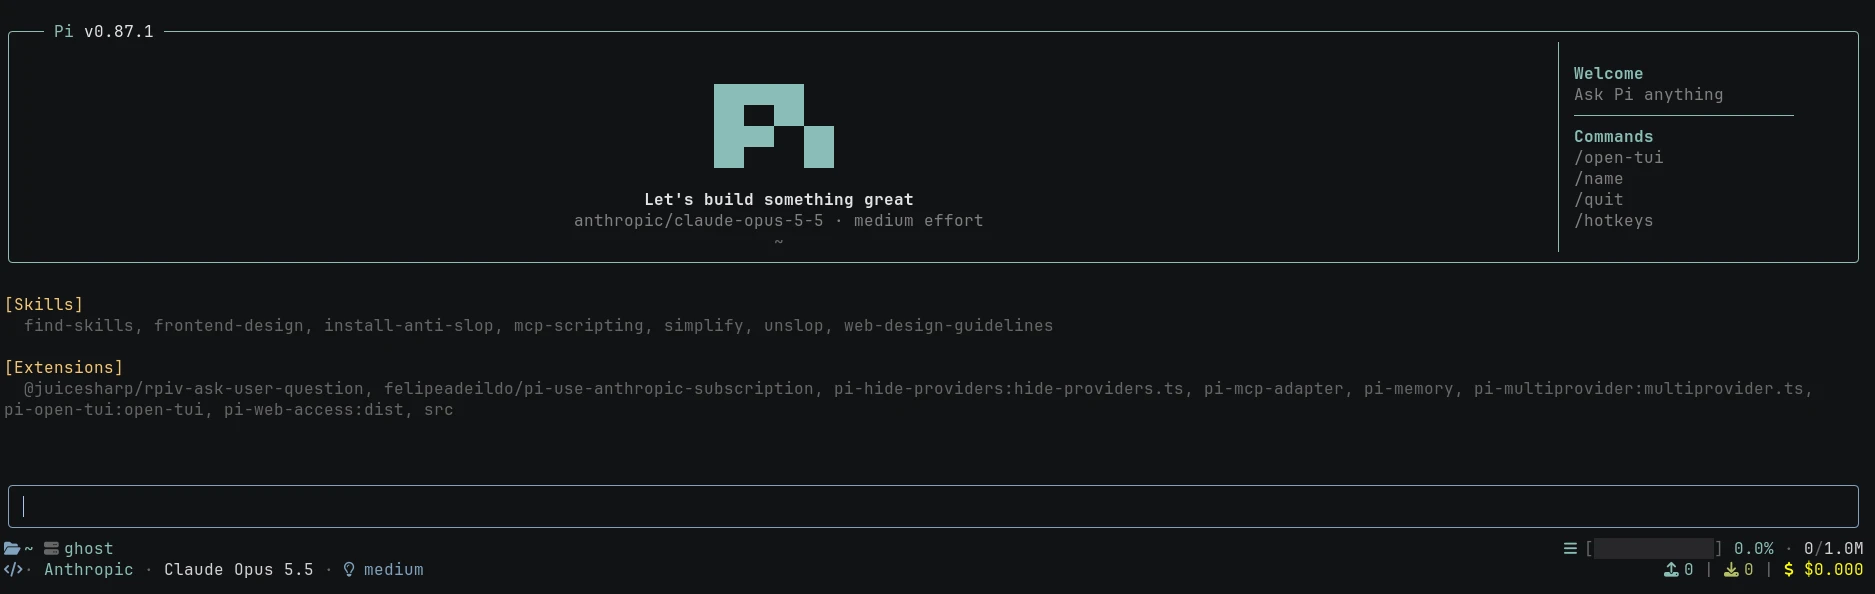
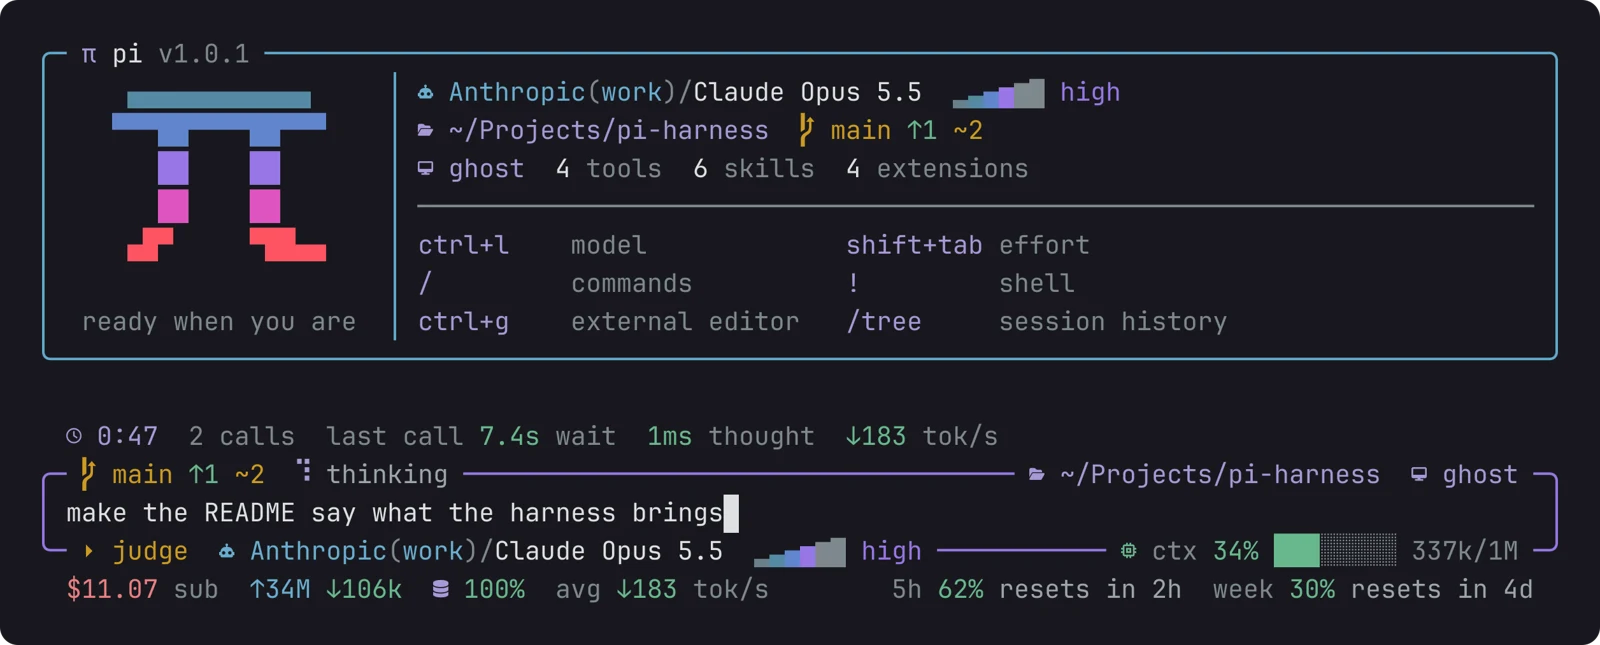
docs(wiki): rewrite the agents page around pi-harness

diff --git a/docs/wiki/agents/index.md b/docs/wiki/agents/index.md
@@ -1,15 +1,15 @@
 ---
 icon: lucide/bot
-description: Pi, the coding agent I use every day, with the settings I changed, every extension I run and what each one is configured to do, including two of my own.
+description: Pi, the coding agent I use every day, with the settings I changed, my own harness on top of it, the extensions from other people I still run, and my skills.
 ---
 
 # agents
 
-I use one AI agent, [Pi](https://pi.dev/), in the terminal. Pi comes small on purpose. You get a model, four or five tools and an editor, and the rest you add with packages. So what makes my Pi mine is which packages I install and how I set each one up, and that's what this page is about.
+I use one AI agent, [Pi](https://pi.dev/), in the terminal. Pi comes small on purpose: a model, a few tools and an editor, and the rest you add with packages. Most of what I add is my own now, [pi-harness](https://github.com/felipeadeildo/pi-harness). The story of why is in [the post about it](../../log/posts/0001_yes_another_agent_harness.md).
 
-![Pi's start screen in Ghostty with the pi-open-tui header, the list of skills and extensions, and the footer with folder, host, model, context and cost](../../assets/images/agents/pi.webp)
+![Pi with pi-harness: the start card with the model, the folder and the keys, then the stopwatch, the framed editor with the branch, the permission mode, the model and the context, and the footer with the cost and the plan's windows](../../assets/images/agents/pi.webp)
 /// caption
-Pi when it starts, with the header and footer from [pi-open-tui](#pi-open-tui).
+Pi when it starts, and a prompt halfway through its answer. The start card, the frame and the footer are my own harness, drawn by [the look](#look).
 ///
 
 ## Install
@@ -19,71 +19,51 @@ curl -fsSL https://pi.dev/install.sh | sh
 pi
 ```
 
-The script looks for Node and npm, then installs Pi with the `npm` of whatever Node is active. Here that's Node 24, from [fnm](../workbench/index.md#languages). It also puts Pi's folder on the `PATH` in your shell config. That's the `# Pi` line at the end of my [`config.fish`](../workbench/index.md#what-i-added), I didn't write it.
-
-Then `/login anthropic` inside Pi connects my Claude subscription. I leave it on Claude Opus 5.5, medium effort.
+The script installs Pi with the `npm` of whatever Node is active, here Node 24 from [fnm](../workbench/index.md#languages), and adds the `# Pi` line to my [`config.fish`](../workbench/index.md#what-i-added). Then `/login anthropic` connects my Claude subscription, and I stay on Claude Opus 5.5, medium effort.
 
 ## Settings
 
-I left most settings alone. These are the ones I changed, in `~/.pi/agent/settings.json`:
+The ones I changed in `~/.pi/agent/settings.json`:
 
-| Setting | What it does |
+| Setting | Why |
 | --- | --- |
-| `tuiMode`: fullscreen | the editor and the status bar stay put, and only the conversation scrolls |
-| `outputPad`: 0 | no side padding on the conversation, so code blocks get the full width |
-| `steeringMode`: all | messages I send while it's working all arrive together after the current step, instead of one per step |
-| `followUpMode`: all | same, for follow-ups (++alt+enter++), which wait until the whole task is done |
-| `showCacheMissNotices` | tells me when the prompt cache missed, which is when a turn costs a lot more |
-| `enableInstallTelemetry`: false | no anonymous install and update reports |
-| `warnings.anthropicExtraUsage`: false | stops warning about paid extra usage, since [my extension](#pi-use-anthropic-subscription) makes it bill the subscription |
-| `defaultModel`: claude-opus-5-5 | the model every new session starts with |
+| `outputPad`: 0 | code blocks get the full width |
+| `steeringMode`: all | messages I send while it works arrive together, not one per step |
+| `followUpMode`: all | same for follow-ups (++alt+enter++) |
+| `showCacheMissNotices` | tells me when a turn costs more because the cache missed |
+| `enableInstallTelemetry`: false | no install reports |
+| `warnings.anthropicExtraUsage`: false | [providers](#providers) bills the subscription, so the warning is wrong |
+| `defaultModel`: claude-opus-5-5 | where every session starts |
 
-## Extensions
+## Packages
 
-Each extension is one line in `settings.json`. `pi install` writes the line for you.
+`pi install npm:<name>` writes each line for you.
 
 ``` json title="~/.pi/agent/settings.json"
 "packages": [
+  "npm:@adeildo/pi-harness",
   "npm:pi-hide-providers",
-  "npm:pi-multiprovider",
   "npm:pi-web-access",
-  "npm:@juicesharp/rpiv-ask-user-question",
-  "npm:pi-mcp-adapter",
-  "npm:pi-open-tui",
   "npm:pi-memory",
-  "git:github.com/felipeadeildo/pi-use-anthropic-subscription.git", // (1)!
   "npm:pi-subagents"
-],
-"extensions": [
-  "/home/adeildo/Projects/pi-ask-permission/src/index.ts" // (2)!
 ]
 ```
 
-1. My fork, straight from git. The reason is [below](#pi-use-anthropic-subscription).
-2. My own extension, loaded from the folder I work on it in, so whatever I change is live the next time Pi starts. Anyone else gets it from npm.
+## pi-harness
 
-Two of these are mine, so they go first.
+**I wrote this one.** Four pieces on top of Pi, no fork. ++alt+s++ opens the settings of all of them, and `pi config` turns any of them off.
 
-### pi-ask-permission
+### permission
 
-**I wrote this one.** Pi runs every tool call without asking. `rm`, `git push`, anything. [pi-ask-permission](https://github.com/felipeadeildo/pi-ask-permission) makes it ask first. You answer `yes`, `always yes` or `deny`, and you can attach a note. The model gets the note with your answer, so if you deny `npm install` with "use pnpm instead", it switches to pnpm and keeps going.
+Pi runs every tool call without asking. This makes it ask: `yes`, `always yes` or `no`, with a note the model reads. A no to `npm install` with "use pnpm instead" makes it switch to pnpm.
 
-![The pi-ask-permission dialog for npm install, with the judge's verdict above it and a note typed on the deny row: use pnpm instead](../../assets/images/agents/ask-permission.webp)
+![The permission dialog for npm install: the judge leaned deny but was only 61% sure, so it asks, with a note typed on no: use pnpm instead](../../assets/images/agents/ask-permission.webp)
 
-``` sh
-pi install npm:pi-ask-permission
-```
+Reads never ask, and an edit shows its diff. ++alt+m++ switches between `manual`, `edits`, `judge` and `full`. I live in `judge`: a small model, Jev from typesafe.ai, reads every call that isn't a read or an edit, and I only see the ones it doubts. Each call says on its frame who let it through:
 
-Reading never asks. `read`, `grep`, `find`, `ls` and bash commands that only read, like `cat` or `git log`, run on their own. An `edit` or a `write` shows you the diff before you decide. ++alt+m++ cycles through three modes. `manual` asks about everything else, `accept edits` lets file changes through, and `auto` lets anything inside the project through.
+![Three tool calls in their frames: a bash the judge approved 97% sure, a read let through by always yes, and a bash the judge sent to me](../../assets/images/agents/call.webp)
 
-Answering all of that by hand gets old fast, which is why there's a **judge**. Before the dialog opens, a small, fast model reads the call and decides. I only see what it isn't sure about. Mine is set up like this:
-
-- the model is Jev, from typesafe.ai, connected with `/login typesafe`. It judges `bash`, `write` and `edit`.
-- it approves only when it's at least 85% sure and the risk is 0.45 or lower. Risk goes up the harder the call is to undo, and when it touches secrets.
-- it can deny on its own when it's 80% sure.
-- when it can't decide, or takes longer than 2 seconds, the call comes to me.
-
-What it allows comes from a policy in plain English. Here's mine:
+Mine runs on `relaxed` rigor (55% sure, risk up to 0.60) and gives up after 2 seconds, which sends the call to me. The policy is plain text:
 
 ``` md title="judge policy"
 # May run without asking
@@ -103,111 +83,57 @@ What it allows comes from a policy in plain English. Here's mine:
 Ask me.
 ```
 
-So tests, builds and commits just go. Installs, pushes and anything with `sudo` land on my screen.
+Calls outside the project go to the judge like any other, since I work across repos a lot.
 
-### pi-use-anthropic-subscription
+### questions
 
-Without this, Pi's requests with a Claude subscription count as paid extra usage. With it, they come out of the Pro/Max plan, like Claude Code's do. The trick is simple. Pi introduces itself to Anthropic's API the same way the official Claude Code CLI does.
+When something could go two ways, the agent asks instead of guessing: options, a preview of each, and a row for my own answer. ++tab++ leaves a note on any option, picked or not. The permission dialog is this same dialog, with the same keys.
 
-The original is [pi-claude-max](https://github.com/bradennss/pi-claude-max), by Braden Lamb. I run [my fork](https://github.com/felipeadeildo/pi-use-anthropic-subscription) because one day the original just stopped working.
+![The question dialog: two questions as tabs, the options on the left, and on the right the description and the preview of the focused option](../../assets/images/agents/questions.webp)
 
-Part of that introduction is the Claude Code version, and Anthropic won't serve newer models to versions it considers too old. The extension said 2.1.211. Claude Opus 5.5 wants 2.1.280 or newer. So every single request came back as `400 claude_code_version_too_old`. The fix was changing that number to 2.1.280. I sent it back [as a pull request](https://github.com/bradennss/pi-claude-max/pull/7), and until it's merged and on npm, Pi installs from my fork:
+### look
 
-``` sh
-pi install git:github.com/felipeadeildo/pi-use-anthropic-subscription.git
-```
+Pi's screen, drawn around what matters while the agent works: the start card, a frame around every tool call, a stopwatch above the editor, the branch, the mode and the model on the editor's borders, and a footer with the cost and how much of the Claude plan is left. It replaced pi-open-tui, and nothing on it dances: every number has a fixed width.
+
+### providers
+
+Bills Pi's Claude requests to my Pro/Max plan instead of extra usage, by introducing Pi to Anthropic as Claude Code. It also keeps two accounts, mine and the work one (`ranqia`). ++alt+a++ switches between them, and when one hits a limit it offers to move to the other.
 
 !!! warning "Read the fine print"
 
-    Using your subscription from anything other than Claude Code may break Anthropic's terms. The original README warns about it too. Decide if that's a risk you're fine with before turning it on.
+    Using your subscription from anything other than Claude Code may break Anthropic's terms. Decide if that's a risk you're fine with. A request with an API key goes out untouched.
 
-### pi-open-tui
+## From other people
 
-[pi-open-tui](https://github.com/OldSuns/pi-open-tui) is why my Pi looks like the screenshot at the top. The header with the logo and the commands, the frame around the editor and the footer all come from it. `/open-tui` opens its settings, and I only changed three:
+| Package | What it does for me |
+| --- | --- |
+| [pi-hide-providers](https://github.com/monotykamary/pi-hide-providers) | hides Amazon Bedrock from `/model`, which shows up because my shell exports a work `AWS_PROFILE` |
+| [pi-web-access](https://github.com/nicobailon/pi-web-access) | search, pages, GitHub repos, PDFs and YouTube, with no API key |
+| [pi-memory](https://github.com/jayzeng/pi-memory) | decisions, a daily log and a scratchpad in markdown, searched by meaning with [qmd](https://github.com/tobi/qmd). It's why I never repeat "commits are one line" |
+| [pi-subagents](https://github.com/nicobailon/pi-subagents) | hands a task to a child session with a clean context and a cheaper model, only when I ask |
 
-| Setting | Default | Mine |
-| --- | --- | --- |
-| cursor | block | bar |
-| hostname in the footer | off | on |
-| session name in the footer | off | on |
-
-The footer packs in a lot. Folder, machine, session name, git branch and status on one side. Provider, model and thinking level below. Context usage, tokens in and out and the session's cost on the right. Every answer ends with a line showing tokens per second, time to the first token and how long it took. And while the model thinks, I see one line of its reasoning go by, not just "Thinking...".
-
-### pi-multiprovider
-
-I have two Claude subscriptions, mine and the one from work. [pi-multiprovider](https://github.com/monotykamary/pi-multiprovider) puts both behind the same `anthropic` provider. New sessions start on mine. When mine hits a limit, the next request goes to the work one, and it switches before any text reaches the screen, so an answer never dies halfway. A session then stays on its account, which keeps the prompt cache warm. `/multilogin` manages the accounts and `/accounts` shows how each one is doing.
-
-### pi-hide-providers
-
-My fish config exports an `AWS_PROFILE` for work. Pi sees those AWS credentials and fills `/model` with every model on Amazon Bedrock, which I never use here. [pi-hide-providers](https://github.com/monotykamary/pi-hide-providers) takes them out:
-
-``` json title="~/.pi/agent/hide-providers.json"
-{
-  "hide": [{ "provider": "amazon-bedrock" }]
-}
-```
-
-Now they're gone from `/model`, from ++ctrl+p++ and from `--list-models`.
-
-### pi-web-access
-
-[pi-web-access](https://github.com/nicobailon/pi-web-access) lets the agent search, read pages, clone GitHub repos, pull text out of PDFs and even watch YouTube videos. Search works with no API key, through Exa, and I never saw a reason to add one.
-
-### pi-mcp-adapter
-
-MCP servers usually dump every tool they have into the prompt, and a single server can cost 10,000 tokens before you've asked anything. [pi-mcp-adapter](https://github.com/nicobailon/pi-mcp-adapter) registers one proxy tool of about 200 tokens instead. The agent looks up the tool it needs when it needs it, and a server only starts when something calls it. It also reads the `.mcp.json` that projects already have, so at work Pi finds PostHog and our internal servers with no setup.
-
-### pi-memory
-
-Every Pi session starts knowing nothing about the last one. [pi-memory](https://github.com/jayzeng/pi-memory) fixes that with plain markdown files in `~/.pi/agent/memory/`. One file holds decisions and preferences, each day gets its own log, and a scratchpad keeps the things to come back to. Pi puts the relevant parts into every conversation by itself. I also installed [qmd](https://github.com/tobi/qmd) with `bun add -g @tobilu/qmd`, so the agent can search all of it by meaning and not only by keyword.
-
-This is why I don't repeat myself anymore. "Commits are one line, no body" and "always `uv add`, never edit `pyproject.toml` by hand" were said once, and they stuck.
-
-### pi-subagents
-
-"Read these five files and tell me what matters" puts five files in my context when all I wanted was two lines of answer. [pi-subagents](https://github.com/nicobailon/pi-subagents) lets Pi start a child session for that. The child gets a clean context and the task, and only its result comes back.
-
-It ships with ready-made agents, `scout`, `researcher`, `worker`, `reviewer`, `oracle` and a few more. I barely touch them. What I use it for is the screen before the child starts. Pi writes the task and shows it to me, and I pick the model and fix whatever the task got wrong. The main session stays on Opus, and "find where this is configured" goes to a smaller, cheaper model, with instructions I'd sign.
-
-I ask for it in plain words, like "hand this to a subagent". Pi doesn't delegate by itself because a task looks big. Until I ask, it only sees a tiny tool that turns the feature on, so the full tool schema stays out of sessions that never use it.
-
-Children can also run in the background. They show up below the editor while they work, and `/subagents-fleet` opens each one so I can read what it's doing, steer it or stop it.
-
-### rpiv-ask-user-question
-
-When I ask for something that could go two ways, I'd rather the agent ask than guess. [rpiv-ask-user-question](https://github.com/juicesharp/rpiv-mono) gives it a way to. It opens up to four questions, each with two to four options I pick with the arrows, and there's always a field to type my own answer.
+MCP needs no package anymore. Pi reads `.pi/mcp.json` in each trusted project since 0.99, and every MCP call goes through [permission](#permission).
 
 ## Skills
 
-A skill is a set of instructions the agent only reads when a task calls for it. I install them with [skills](https://github.com/vercel-labs/skills), a CLI that also works with other agents:
+Installed with [skills](https://github.com/vercel-labs/skills): `npx skills add <repo>`.
 
-``` sh
-npx skills add anthropics/skills
-```
-
-| Skill | From | What it's for |
+| Skill | From | For |
 | --- | --- | --- |
-| `unslop` | [cursor/plugins](https://github.com/cursor/plugins) | rewriting text so it doesn't sound like AI. The pages of this wiki went through it |
-| `simplify` | [brianlovin/agent-config](https://github.com/brianlovin/agent-config) | cleaning up code that was just written, without changing what it does |
-| `frontend-design` | [anthropics/skills](https://github.com/anthropics/skills) | interfaces with a real visual direction, not the default look |
-| `web-design-guidelines` | [vercel-labs/agent-skills](https://github.com/vercel-labs/agent-skills) | reviewing a UI for accessibility and good practice |
-| `install-anti-slop` | [dmmulroy/anti-slop](https://github.com/dmmulroy/anti-slop) | installing lint rules that catch AI-looking code |
-| `find-skills` | [vercel-labs/skills](https://github.com/vercel-labs/skills) | finding and installing other skills |
-| `mcp-scripting` | comes with pi-mcp-adapter | chaining several MCP calls in one script |
+| `unslop` | [cursor/plugins](https://github.com/cursor/plugins) | text that doesn't sound like AI. This wiki went through it |
+| `simplify` | [brianlovin/agent-config](https://github.com/brianlovin/agent-config) | cleaning up code that was just written |
+| `code-review` | [mattpocock/skills](https://github.com/mattpocock/skills) | reviewing a branch against the repo's standards and the issue |
+| `frontend-design` | [anthropics/skills](https://github.com/anthropics/skills) | interfaces with a real visual direction |
+| `web-design-guidelines` | [vercel-labs/agent-skills](https://github.com/vercel-labs/agent-skills) | reviewing a UI for accessibility |
+| `tui-design` | [hyperb1iss/hyperskills](https://github.com/hyperb1iss/hyperskills) | terminal interfaces. The look got a lot of it |
+| `find-skills` | [vercel-labs/skills](https://github.com/vercel-labs/skills) | finding other skills |
 
 ## What's still missing
 
-All of this assumes one session, in one terminal, with me sitting in front of it. That's not how I want to work forever. There's a lot I'd like to control and can't yet.
+Everything here assumes one session, one terminal, and me in front of it. Next on the [roadmap](https://github.com/felipeadeildo/pi-harness/blob/main/ROADMAP.md):
 
-- **Sessions that talk.** Apart from what pi-memory carries, sessions don't know the others exist. I want to pass what one found to another, or have one ask another for help. [pi-intercom](https://pi.dev/packages/pi-intercom) sends messages between two sessions on the same machine. [pi-messenger](https://github.com/nicobailon/pi-messenger) puts several agents in a shared room where they claim tasks and reserve files so they don't step on each other.
-- **My phone.** Start something at the computer, walk away, and still follow it, approve a permission or send the next message from wherever I am. [remote-pi](https://pi.dev/packages/remote-pi) pairs a phone with a QR code, and it also lets local agents talk to each other. [Tailscale](../workbench/index.md#command-line-tools) is already installed here, which could be another way in.
-
-Subagents used to be on this list. [pi-subagents](#pi-subagents) covers them, but every child still belongs to one parent session on one machine. For the rest I haven't picked anything. They overlap a lot, and I don't want five extensions that each do a third of the job and don't know about each other. I'm still figuring out how the pieces should fit.
-
-### Maybe one package for all of it
-
-[oh-my-pi](https://github.com/can1357/oh-my-pi) already answered this its own way. It forked Pi and built everything in, subagents, language servers, debuggers and dozens more tools. I'd go the other way and keep Pi as it is and put everything on top as packages. A Pi package can carry extensions, skills, prompts and themes together, so a single install could bring the whole thing.
-
-What I have in mind is turning the pi-ask-permission repo into a monorepo. My extensions, my take on which MCP servers are worth it, my settings, a theme, each installable on its own. Something like an oh-my-pi of my own, minus the fork. Not now, but that's where this is going.
+- **Sessions that talk**, passing what one found to another.
+- **My phone**, to follow a session and approve a call from anywhere, under the same policy, probably over [Tailscale](../workbench/index.md#command-line-tools).
+- **My own memory and web access**, so pi-memory and pi-web-access share state with the rest of the harness.
 
 *[MCP]: Model Context Protocol, a standard way to plug tools and data sources into an AI agent
